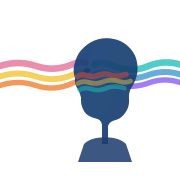
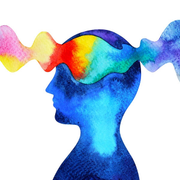
Update AgentOS branding assets and docs

diff --git a/app/docs/page.tsx b/app/docs/page.tsx
@@ -1,4 +1,5 @@
 import Link from 'next/link';
+import Image from 'next/image';
 import Nav from '@/components/Nav';
 import DocsFooter from '@/components/DocsFooter';
 import Badge from '@/components/Badge';
@@ -142,6 +143,31 @@ export default function DocsPage() {
           <main style={{ flex: 1, minWidth: 0, paddingBottom: '80px' }}>
             {/* Header */}
             <div style={{ marginBottom: '48px' }}>
+              <div style={{ display: 'flex', alignItems: 'center', gap: '16px', marginBottom: '16px' }}>
+                <Image
+                  src="/logo.png"
+                  alt="AgentOS logo"
+                  width={72}
+                  height={72}
+                  style={{ borderRadius: '18px', objectFit: 'cover', border: '1px solid var(--border)' }}
+                />
+                <div>
+                  <div style={{
+                    fontFamily: 'var(--font-mono), JetBrains Mono, monospace',
+                    fontSize: '13px',
+                    fontWeight: 600,
+                    color: 'var(--text-tertiary)',
+                    textTransform: 'uppercase',
+                    letterSpacing: '0.08em',
+                    marginBottom: '6px',
+                  }}>AgentOS</div>
+                  <div style={{
+                    fontFamily: 'var(--font-sans), IBM Plex Sans, sans-serif',
+                    fontSize: '15px',
+                    color: 'var(--text-secondary)',
+                  }}>Platform docs, SDK routes, workflows, apps, and FFP.</div>
+                </div>
+              </div>
               <Badge variant="accent" style={{ marginBottom: '16px' }}>Reference</Badge>
               <h1 style={{
                 fontFamily: 'var(--font-mono), JetBrains Mono, monospace',

diff --git a/components/Nav.tsx b/components/Nav.tsx
@@ -2,6 +2,7 @@
 
 import { useEffect, useState } from 'react';
 import Link from 'next/link';
+import Image from 'next/image';
 import { useRouter } from 'next/navigation';
 import { fetchBrowserSession, type BrowserSession } from '@/src/auth/browser-session';
 
@@ -86,23 +87,19 @@ export default function Nav({ activePath }: NavProps) {
       >
         <div className="container" style={{ height: 72, display: 'flex', alignItems: 'center', justifyContent: 'space-between', gap: 16 }}>
           <Link href={session ? '/studio' : '/'} style={{ display: 'flex', alignItems: 'center', gap: 12, textDecoration: 'none' }}>
-            <div
+            <Image
+              src="/logo.png"
+              alt="AgentOS logo"
+              width={36}
+              height={36}
               style={{
                 width: 36,
                 height: 36,
                 borderRadius: 8,
-                display: 'grid',
-                placeItems: 'center',
-                background: 'rgba(139, 92, 246, 0.14)',
-                border: '1px solid rgba(139, 92, 246, 0.22)',
-                color: '#ddd6fe',
-                fontFamily: 'var(--font-mono), JetBrains Mono, monospace',
-                fontWeight: 700,
-                fontSize: 12,
+                objectFit: 'cover',
+                border: '1px solid rgba(255, 255, 255, 0.08)',
               }}
-            >
-              OS
-            </div>
+            />
             <div style={{ display: 'flex', flexDirection: 'column', lineHeight: 1.1 }}>
               <span style={{ fontWeight: 700 }}>AgentOS</span>
               <span style={{ color: 'var(--text-tertiary)', fontSize: 12 }}>AI operating system</span>

diff --git a/README.md b/README.md
@@ -1,10 +1,14 @@
 # AgentOS
 
+<p align="center">
+  <img src="public/logo.png" alt="AgentOS logo" width="220" />
+</p>
+
 > Built by **riz** · v6 "Public Launch"
 
 **OS-level primitives for AI agents — memory, files, databases, networking, events, and code execution over a single authenticated HTTP API.**
 
-🚀 **Live:** [agentos.services](https://agentos.services) · [Get started free →](https://agentos-app.vercel.app/signup)
+🚀 **Live:** [agentos.services](https://agentos.services) · [Get started free →](https://www.agentos.services/signup)
 Official CA : GtpxyYeFGDA8WoxA5buhRXMcBKweMCpK9S2CShmCpump
 
 AgentOS is a production infrastructure layer that gives any agent or app a safe, isolated environment to persist data, run code, make HTTP requests, publish events, and coordinate with other agents — without touching the host system. Each client gets its own namespace, enforced quotas, rate limits, and a full audit trail.
@@ -67,17 +71,17 @@ GET  /api/kernel/status/:product  # heartbeat + available commands
 
 ### Option A: Hosted
 
-[Sign up at agentos-app.vercel.app/signup](https://agentos-app.vercel.app/signup) — get your bearer token in 30 seconds. Agent IDs stay private; browser screens and APIs use agent names or public action refs. No credit card required.
+[Sign up at agentos.services/signup](https://www.agentos.services/signup) — get your bearer token in 30 seconds. Agent IDs stay private; browser screens and APIs use agent names or public action refs. No credit card required.
 
 ```bash
 # Store a value
-curl -X POST https://agentos-app.vercel.app/mcp \
+curl -X POST https://www.agentos.services/mcp \
   -H "Authorization: Bearer YOUR_API_KEY" \
   -H "Content-Type: application/json" \
   -d '{"tool":"agentos.mem_set","input":{"key":"hello","value":"world","ttl":3600}}'
 
 # Fetch live data
-curl -X POST https://agentos-app.vercel.app/mcp \
+curl -X POST https://www.agentos.services/mcp \
   -H "Authorization: Bearer YOUR_API_KEY" \
   -H "Content-Type: application/json" \
   -d '{"tool":"agentos.net_http_get","input":{"url":"https://api.binance.com/api/v3/ticker/price?symbol=BTCUSDT"}}'
@@ -114,7 +118,7 @@ NEXT_PUBLIC_APP_URL=
 SDK users access the full dashboard (FFP audit trail, consensus, workflows) using their API key:
 
 ```js
-const res = await fetch('https://agentos-app.vercel.app/api/session/from-key', {
+const res = await fetch('https://www.agentos.services/api/session/from-key', {
   method: 'POST',
   headers: { 'Content-Type': 'application/json' },
   body: JSON.stringify({ apiKey: process.env.AGENT_OS_KEY }),
@@ -279,3 +283,5 @@ Built and maintained by **riz**.
 ## License
 
 MIT
+
+